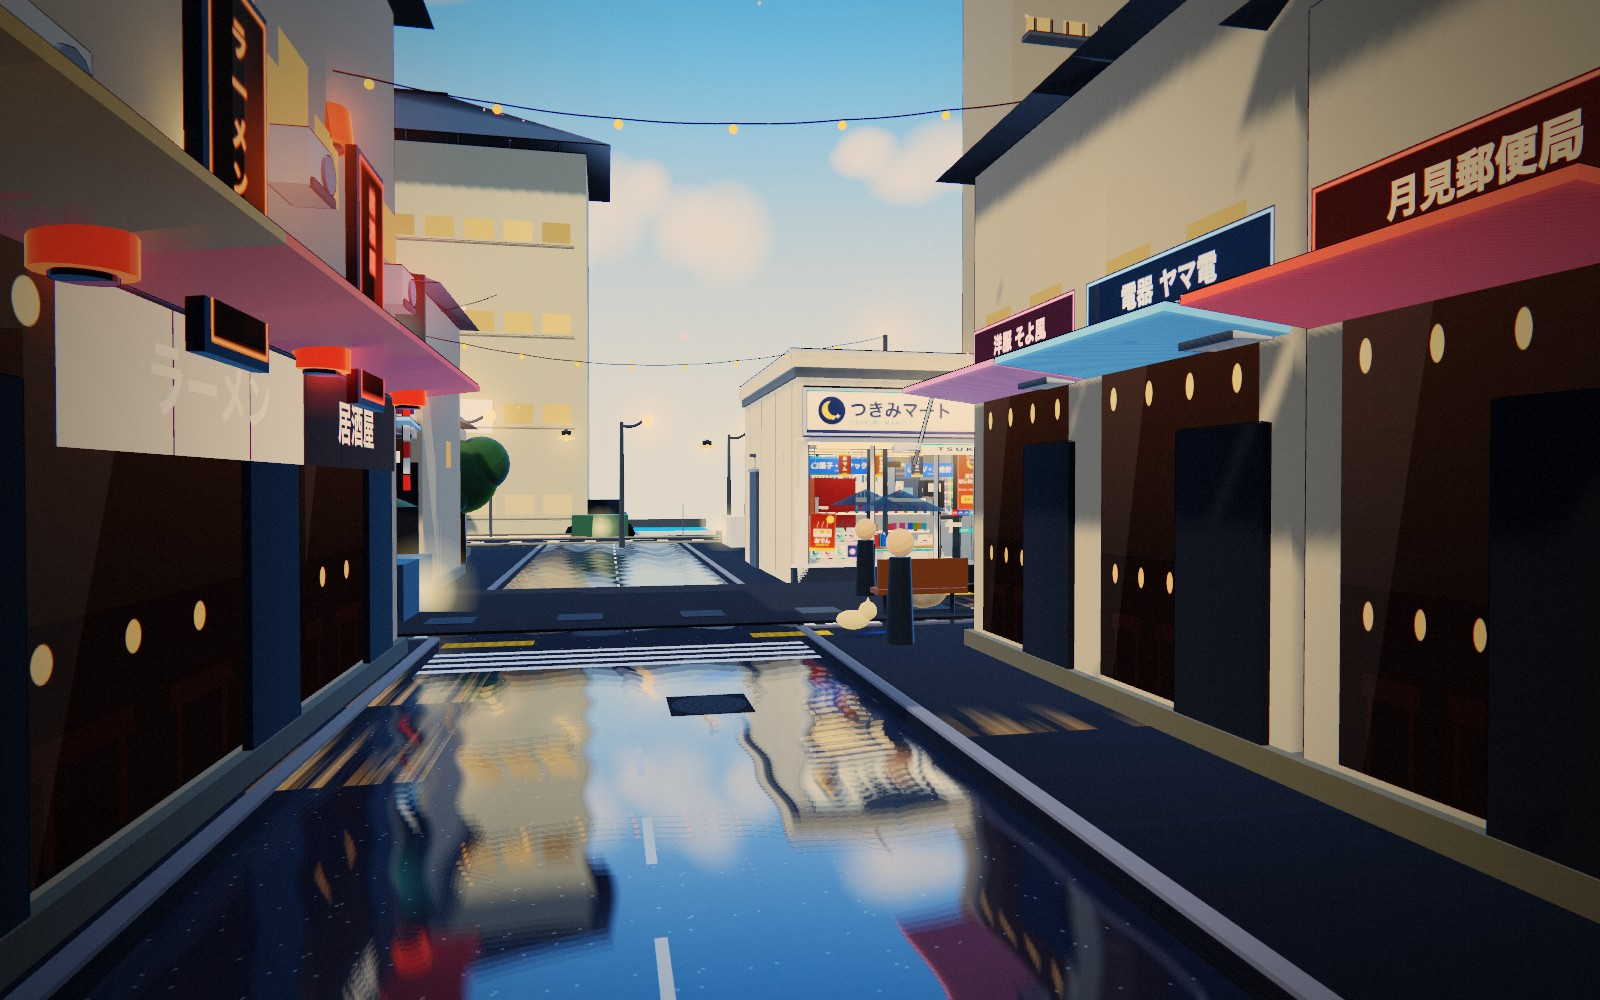
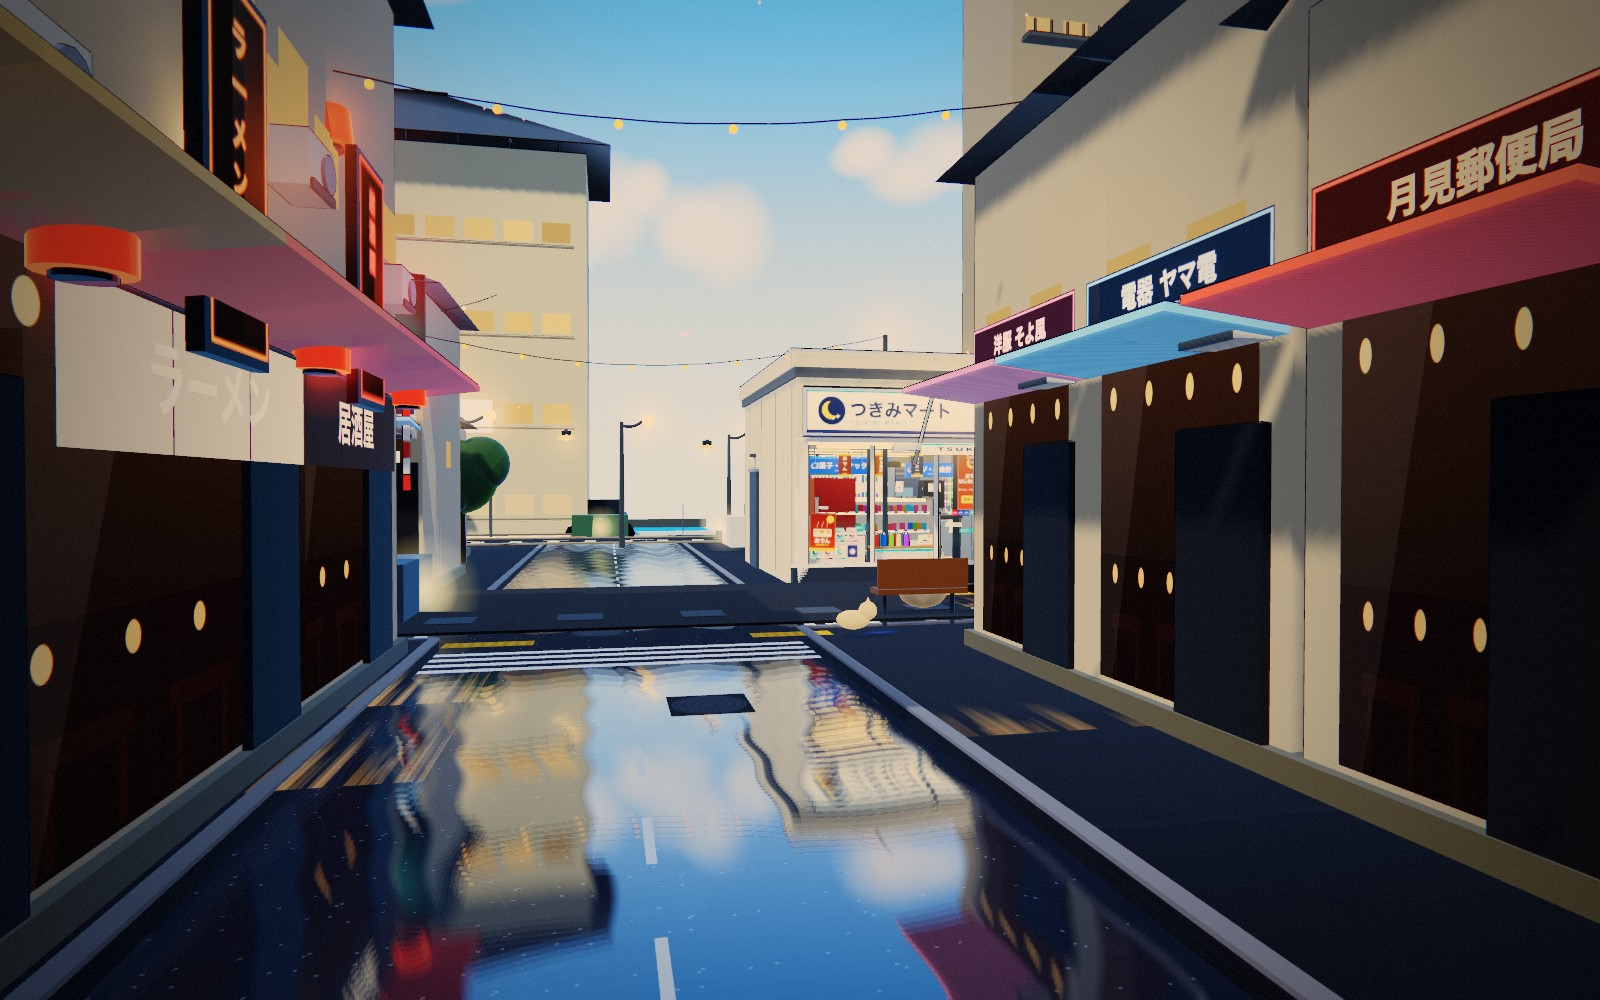
fix(konbini-rain): 按场景要求移除行人（保留汽车/猫/电车动效）

Changed region(s): [[0.5312, 0.465, 0.5938, 0.651], [0.5, 0.713, 0.5938, 0.837]]

diff --git a/apps/konbini-rain/src/world/city.js b/apps/konbini-rain/src/world/city.js
@@ -1158,7 +1158,6 @@ export function buildCity(ctx) {
   const sig = signals(g);
   const cars = movingCars(g);
   const cats = movingCats(g);
-  const peds = pedestrians(g);
   const boats = boat(g);
   const petalsMod = petals(g);
   const lan = lanternSwings(g);
@@ -1171,7 +1170,6 @@ export function buildCity(ctx) {
       sig.update(t);
       cars.update(t);
       cats.update(t);
-      peds.update(t);
       boats.update(t);
       petalsMod.update(t, dt);
       lan.update(t);
